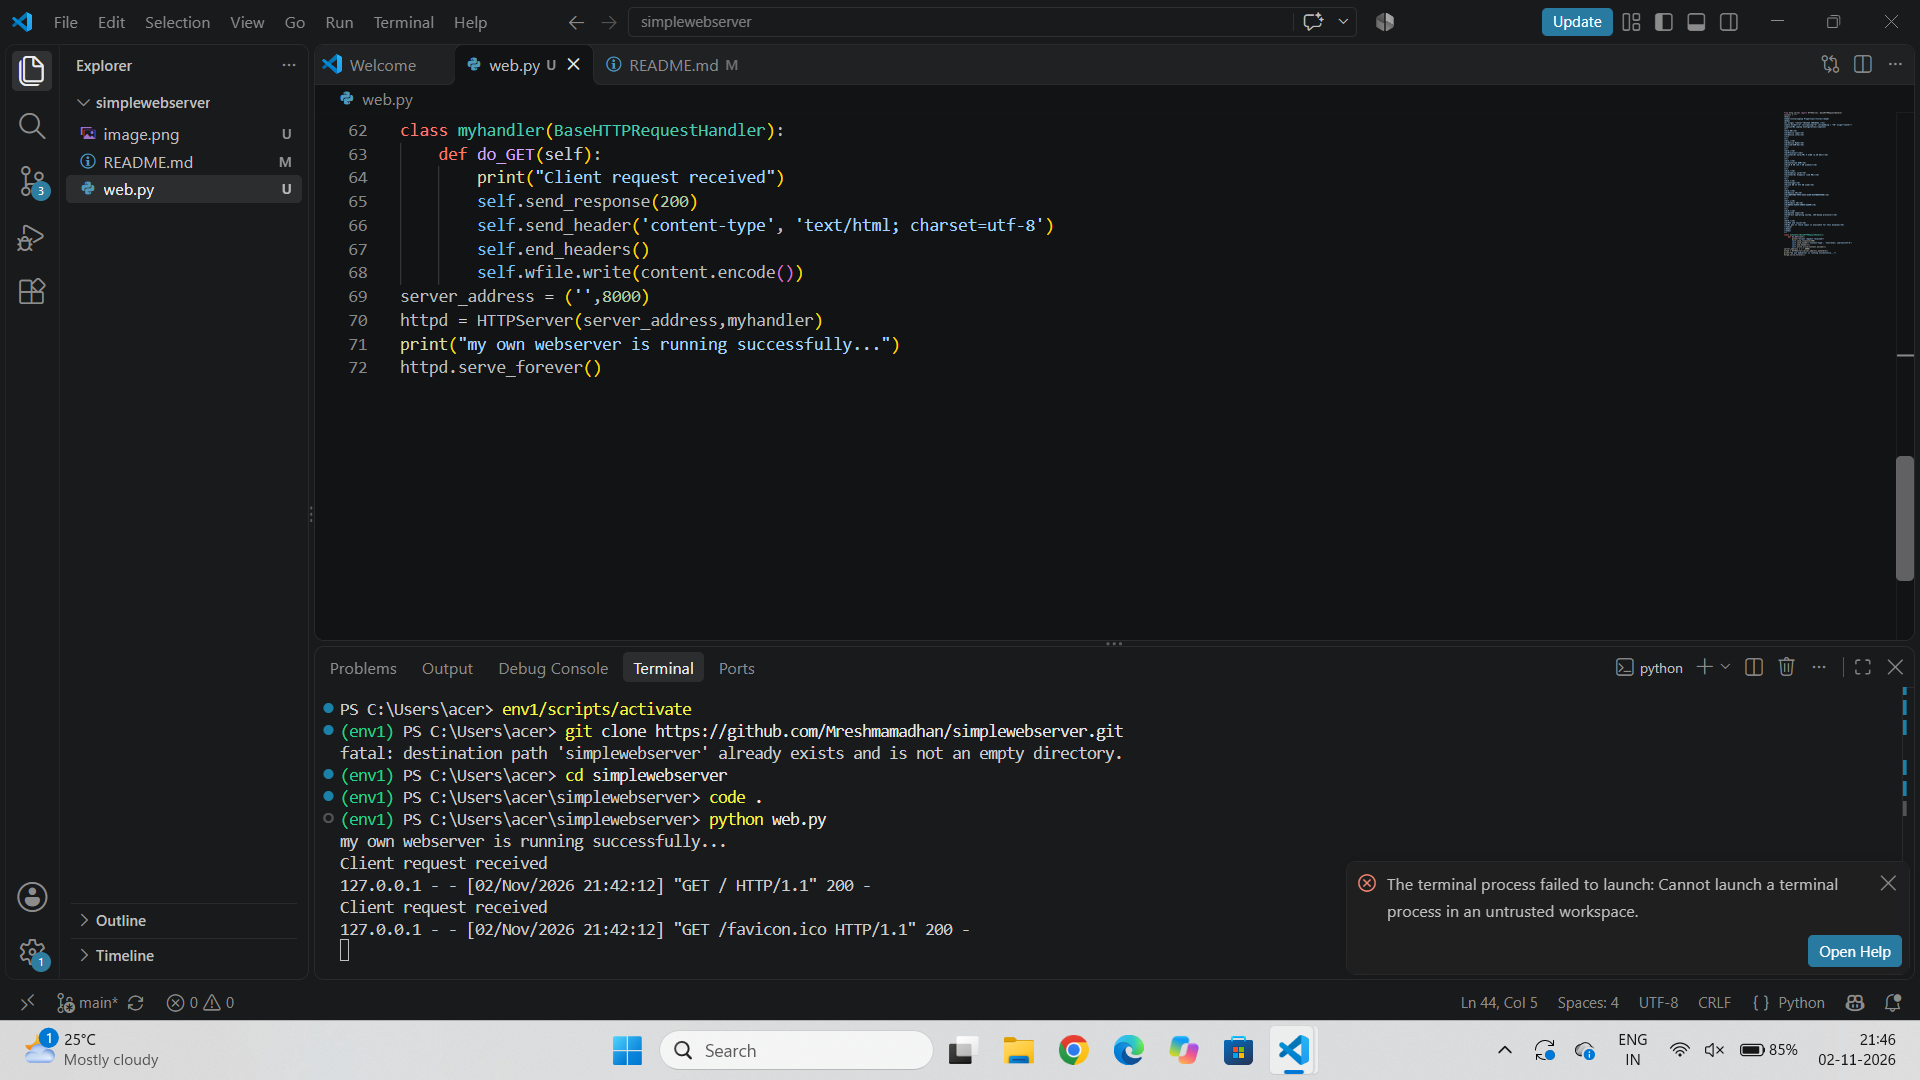
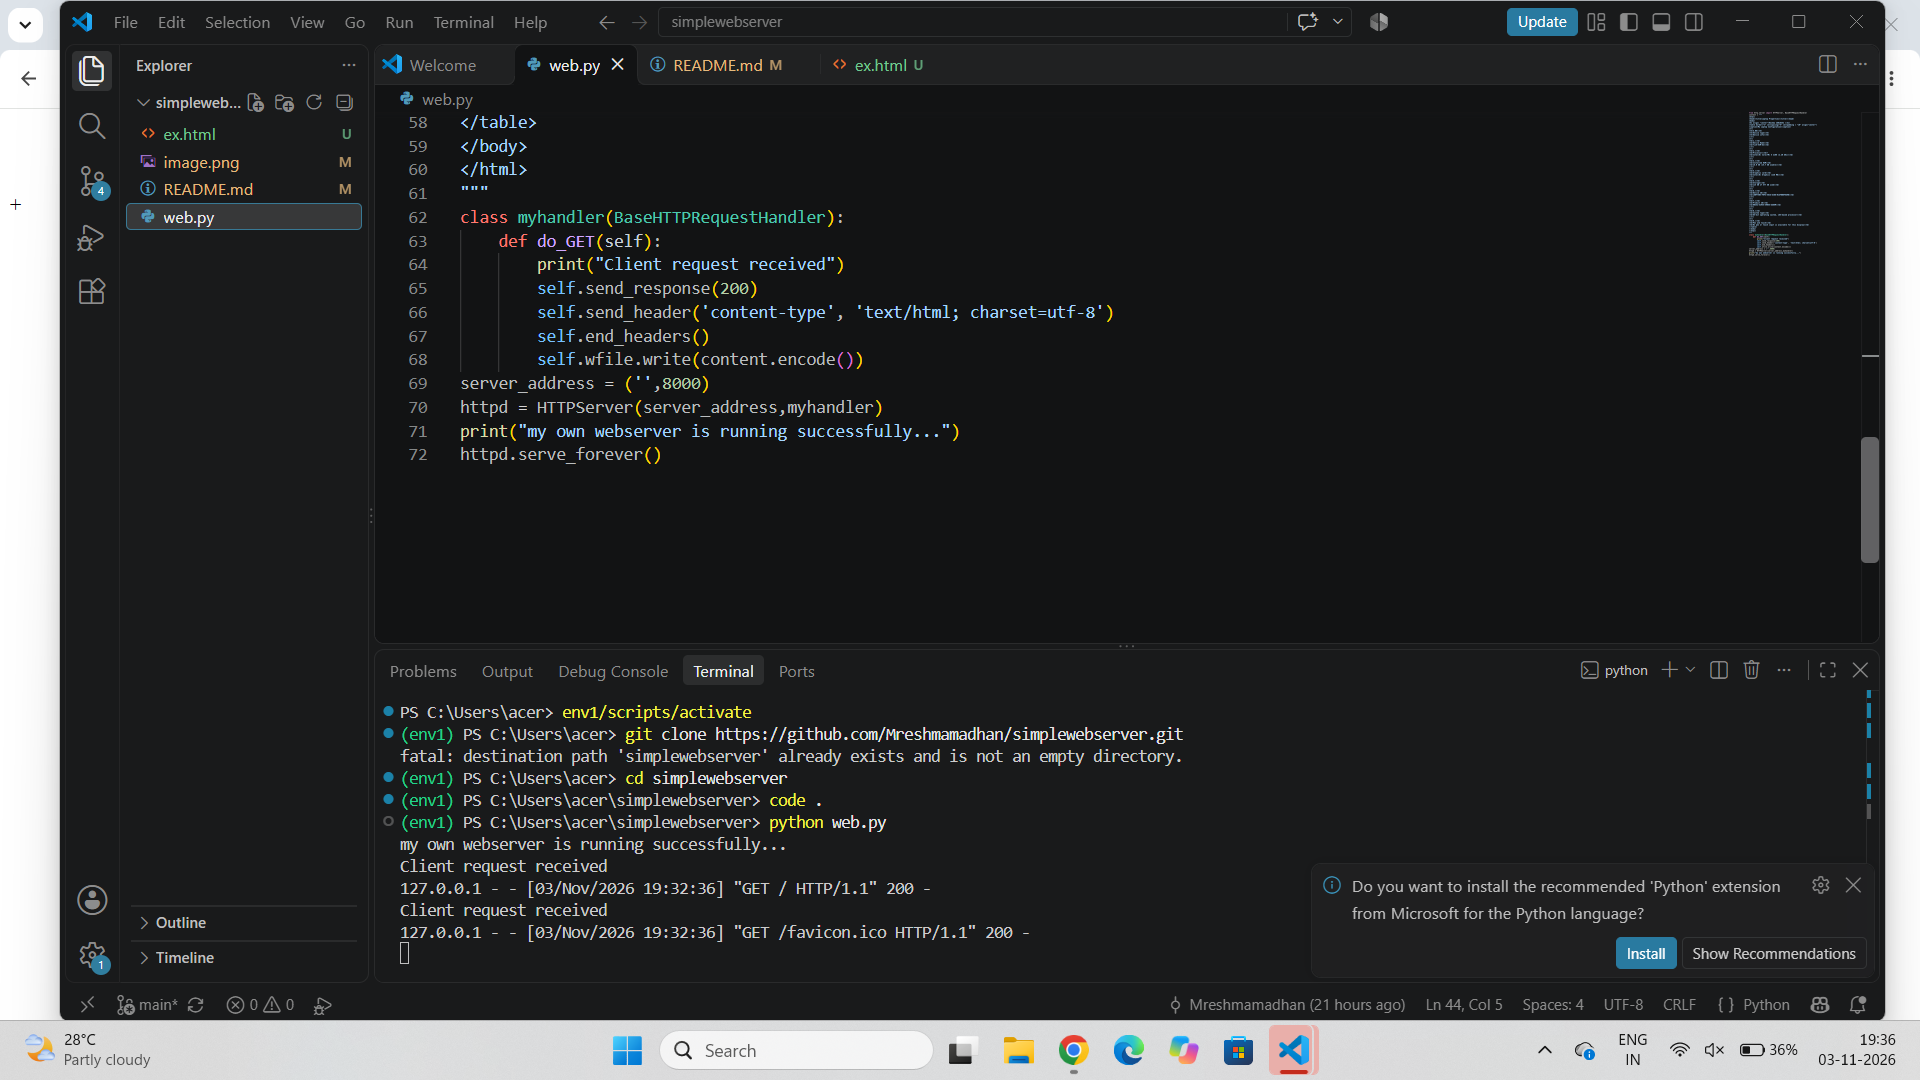
Success

diff --git a/ex.html b/ex.html
@@ -1,0 +1,17 @@
+<html>
+        <head>
+          <title>rectangle</title>
+        </head>
+        <body>
+        <h1 align="center">Reshma 26018352
+        </h1>
+        <form>
+        <label>length</label>
+        <input type="text"><br></br>
+        <label>breadth</label>
+        <input type="text"><br></br>
+        <input type="submit">
+        <input type="text"><br></br>
+        </form>
+    </body>
+</html>
